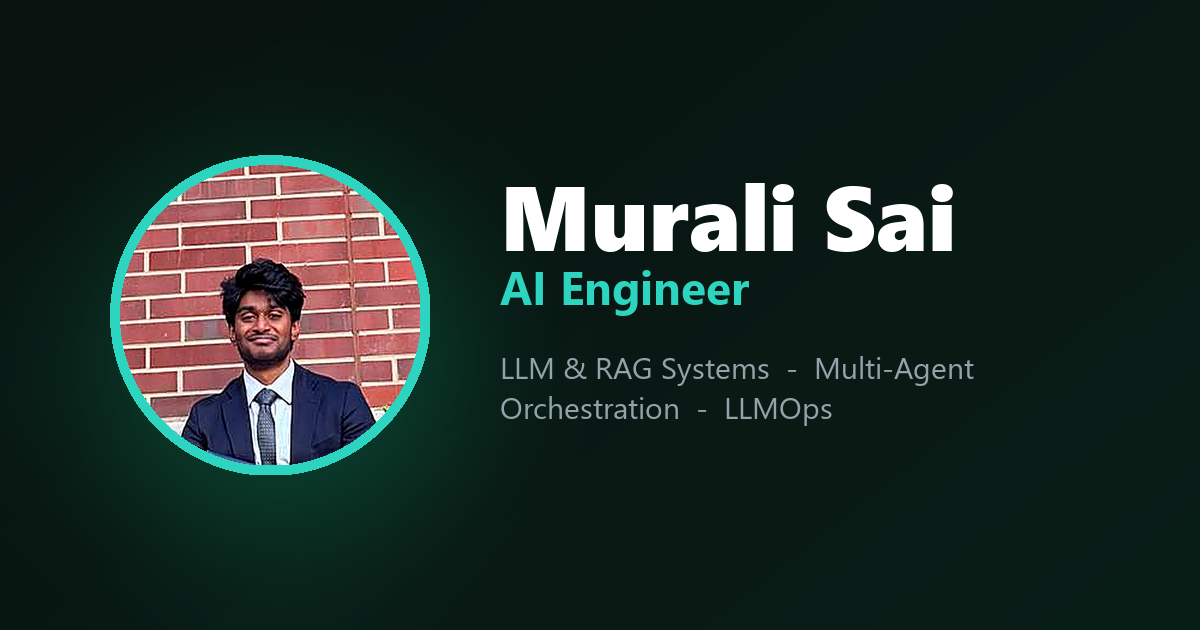
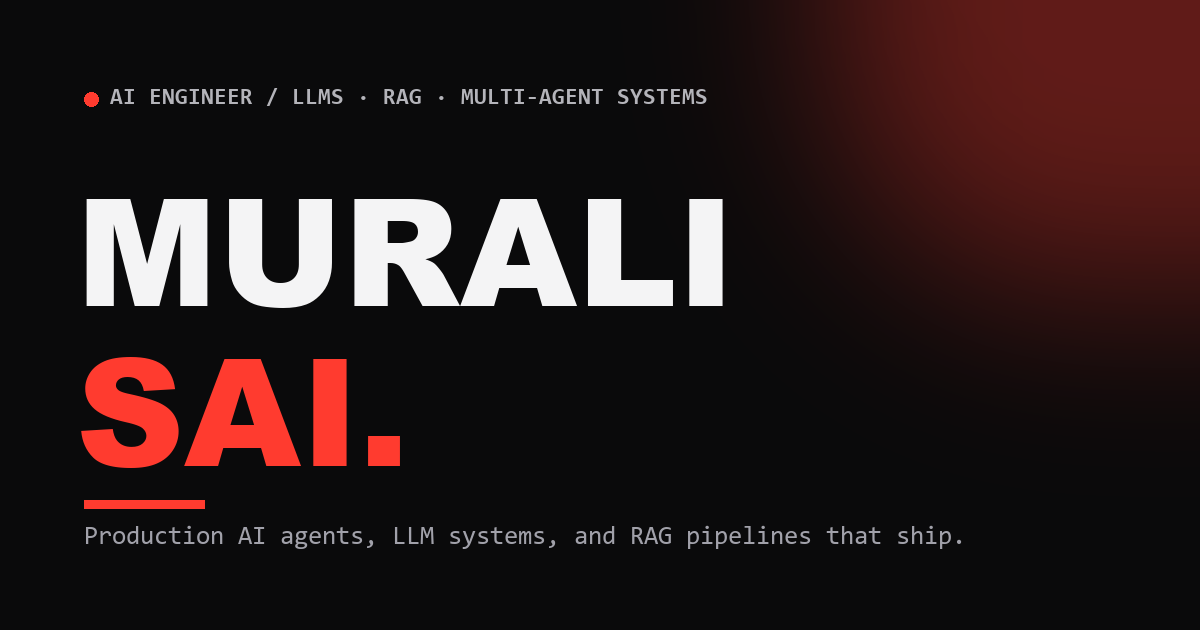
Redesign UI to black/red brutalist style (keep CV structure)
Adopt the reference's brutalist aesthetic while keeping the existing layout:
pure-black background with red glow, red/vermilion accent, heavy uppercase
Archivo display type, JetBrains Mono labels/eyebrows with slash markers,
sharp-cornered cards/buttons/pills, square avatar and bullets, and a matching
black/red OG preview image.

diff --git a/app/globals.css b/app/globals.css
@@ -13,12 +13,10 @@ html {
 
 body {
   @apply bg-bg text-ink font-sans antialiased;
+  background-color: #0a0a0b;
   background-image:
-    radial-gradient(circle at center, rgba(45, 212, 191, 0.11) 1px, transparent 1.6px),
-    radial-gradient(60rem 60rem at 85% -10%, rgba(45, 212, 191, 0.1), transparent 60%),
-    radial-gradient(50rem 50rem at -10% 20%, rgba(16, 185, 129, 0.08), transparent 55%),
-    linear-gradient(180deg, #04110d 0%, #061712 50%, #04100c 100%);
-  background-size: 26px 26px, 100% 100%, 100% 100%, 100% 100%;
+    radial-gradient(42rem 42rem at 92% -8%, rgba(255, 59, 47, 0.12), transparent 55%),
+    radial-gradient(38rem 38rem at -8% 8%, rgba(255, 59, 47, 0.05), transparent 55%);
   background-attachment: fixed;
   min-height: 100vh;
 }
@@ -31,15 +29,14 @@ body {
   background: #04110d;
 }
 ::-webkit-scrollbar-thumb {
-  background: rgba(16, 185, 129, 0.25);
-  border-radius: 9999px;
+  background: rgba(255, 59, 47, 0.3);
 }
 ::-webkit-scrollbar-thumb:hover {
-  background: rgba(16, 185, 129, 0.45);
+  background: rgba(255, 59, 47, 0.5);
 }
 
 ::selection {
-  background: rgba(16, 185, 129, 0.3);
+  background: rgba(255, 59, 47, 0.35);
   color: #ffffff;
 }
 
@@ -69,27 +66,23 @@ body {
 
 @layer components {
   .card {
-    @apply rounded-2xl border border-white/[0.08] bg-gradient-to-b from-white/[0.05] to-white/[0.02] backdrop-blur-sm transition-all duration-300;
+    @apply rounded-none border border-white/10 bg-white/[0.02] transition-all duration-200;
   }
   .card-hover:hover {
-    @apply -translate-y-1 border-accent/40 from-white/[0.08] shadow-glow;
+    @apply border-accent/70 bg-white/[0.04] shadow-glow;
   }
   .pill {
-    @apply inline-flex items-center rounded-full border border-accent/25 bg-accent/[0.08] px-3 py-1 text-xs font-medium text-accent-soft transition-colors hover:border-accent/50 hover:bg-accent/[0.14];
+    @apply inline-flex items-center rounded-none border border-white/15 bg-transparent px-2.5 py-1 font-mono text-[11px] uppercase tracking-wider text-ink-muted transition-colors hover:border-accent/70 hover:text-accent-soft;
   }
   .section-title {
-    @apply font-display text-3xl font-bold tracking-tight md:text-4xl;
-    background-image: linear-gradient(135deg, #ffffff 0%, #d3efe8 55%, #2dd4bf 125%);
-    -webkit-background-clip: text;
-    background-clip: text;
-    color: transparent;
+    @apply font-display text-4xl font-extrabold uppercase tracking-tight text-ink md:text-5xl;
   }
   .section-kicker {
-    @apply mb-2 inline-flex items-center gap-2 text-xs font-semibold uppercase tracking-[0.25em] text-accent;
+    @apply mb-3 inline-flex items-center gap-2 font-mono text-xs font-medium uppercase tracking-[0.25em] text-accent;
   }
   .section-kicker::before {
-    content: "";
-    @apply h-px w-7 bg-accent/70;
+    content: "/";
+    @apply font-mono text-accent;
   }
 }
 

diff --git a/components/ProfileSidebar.tsx b/components/ProfileSidebar.tsx
@@ -15,20 +15,23 @@ export default function ProfileSidebar() {
       <div className="card animate-fade-up p-8 text-center">
         <Avatar name={profile.name} />
 
-        <h1 className="mt-5 font-display text-[2.05rem] font-bold leading-tight tracking-tight text-sheen">
-          {profile.name}
+        <h1 className="mt-5 font-display text-[2rem] font-extrabold uppercase leading-[0.95] tracking-tight text-ink">
+          {profile.name.split(" ").slice(0, -1).join(" ")}{" "}
+          <span className="text-accent">
+            {profile.name.split(" ").slice(-1)}.
+          </span>
         </h1>
-        <p className="mt-1 text-sm font-semibold text-accent-soft">
+        <p className="mt-2 font-mono text-xs uppercase tracking-widest text-accent-soft">
           {profile.title}
         </p>
-        <p className="mt-2 text-xs leading-relaxed text-ink-muted">
+        <p className="mt-3 text-xs leading-relaxed text-ink-muted">
           {profile.tagline}
         </p>
 
-        <div className="mt-4 space-y-1.5 text-xs text-ink-faint">
+        <div className="mt-4 space-y-1.5 font-mono text-[11px] text-ink-faint">
           <p>{profile.org}</p>
           <p className="flex items-center justify-center gap-1.5">
-            <MapPin size={13} className="text-accent" />
+            <MapPin size={12} className="text-accent" />
             {profile.location}
           </p>
         </div>
@@ -41,7 +44,7 @@ export default function ProfileSidebar() {
               target="_blank"
               rel="noopener noreferrer"
               aria-label={label}
-              className="flex h-9 w-9 items-center justify-center rounded-full border border-white/10 bg-white/[0.03] text-ink-muted transition-all hover:border-accent/40 hover:bg-accent/10 hover:text-accent-soft"
+              className="flex h-9 w-9 items-center justify-center rounded-none border border-white/15 bg-transparent text-ink-muted transition-all hover:border-accent hover:text-accent-soft"
             >
               <Icon size={16} />
             </a>
@@ -52,7 +55,7 @@ export default function ProfileSidebar() {
           href={profile.resume}
           target="_blank"
           rel="noopener noreferrer"
-          className="mt-6 flex w-full items-center justify-center gap-2 rounded-xl bg-accent px-4 py-2.5 text-sm font-semibold text-bg transition-all hover:bg-accent-soft hover:shadow-glow"
+          className="mt-6 flex w-full items-center justify-center gap-2 rounded-none bg-accent px-4 py-2.5 font-mono text-xs font-semibold uppercase tracking-wider text-bg transition-all hover:bg-accent-soft"
         >
           <FileDown size={16} />
           Download CV

diff --git a/components/Projects.tsx b/components/Projects.tsx
@@ -42,7 +42,7 @@ export default function Projects() {
               <ul className="mt-4 space-y-2">
                 {p.highlights.map((h, i) => (
                   <li key={i} className="flex gap-2.5 text-sm leading-relaxed text-ink-muted">
-                    <span className="mt-2 h-1.5 w-1.5 shrink-0 rounded-full bg-accent/70" />
+                    <span className="mt-2 h-1.5 w-1.5 shrink-0 bg-accent/70" />
                     <span className="flex-1 text-justify">{h}</span>
                   </li>
                 ))}
@@ -63,18 +63,18 @@ export default function Projects() {
                       href={p.demo}
                       target="_blank"
                       rel="noopener noreferrer"
-                      className="inline-flex items-center gap-1.5 rounded-lg border border-accent/30 bg-accent/10 px-3.5 py-1.5 text-xs font-medium text-accent-soft transition-all hover:bg-accent/20"
+                      className="inline-flex items-center gap-1.5 rounded-none border border-accent/60 bg-transparent px-3.5 py-1.5 font-mono text-[11px] uppercase tracking-wider text-accent-soft transition-all hover:bg-accent hover:text-bg"
                     >
-                      <ExternalLink size={14} /> View Deployed Site
+                      View Deployed Site <ExternalLink size={13} />
                     </a>
                   ) : (
                     <a
                       href={p.github}
                       target="_blank"
                       rel="noopener noreferrer"
-                      className="inline-flex items-center gap-1.5 rounded-lg border border-white/10 bg-white/[0.03] px-3.5 py-1.5 text-xs font-medium text-ink-muted transition-all hover:border-accent/40 hover:text-accent-soft"
+                      className="inline-flex items-center gap-1.5 rounded-none border border-white/15 bg-transparent px-3.5 py-1.5 font-mono text-[11px] uppercase tracking-wider text-ink-muted transition-all hover:border-accent hover:text-accent-soft"
                     >
-                      <Github size={14} /> Code
+                      <Github size={13} /> Code
                     </a>
                   )}
                   {p.demo && (

diff --git a/components/Experience.tsx b/components/Experience.tsx
@@ -10,7 +10,7 @@ export default function Experience() {
         {experience.map((job, idx) => (
           <Reveal key={`${job.company}-${job.period}`} delay={idx * 70}>
             <div className="relative pl-12">
-              <span className="absolute left-0 top-1 flex h-10 w-10 items-center justify-center rounded-full border border-accent/30 bg-bg text-accent">
+              <span className="absolute left-0 top-1 flex h-10 w-10 items-center justify-center rounded-none border border-accent/40 bg-bg text-accent">
                 <Briefcase size={16} />
               </span>
               <div className="card card-hover p-6">
@@ -20,7 +20,7 @@ export default function Experience() {
                     <span className="text-accent"> · </span>
                     <span className="text-accent-soft">{job.company}</span>
                   </h3>
-                  <span className="shrink-0 text-xs font-medium text-ink-faint">
+                  <span className="shrink-0 font-mono text-[11px] text-ink-faint">
                     {job.period}
                   </span>
                 </div>
@@ -29,7 +29,7 @@ export default function Experience() {
                 <ul className="mt-4 space-y-2.5">
                   {job.highlights.map((h, i) => (
                     <li key={i} className="flex gap-2.5 text-sm leading-relaxed text-ink-muted">
-                      <span className="mt-2 h-1.5 w-1.5 shrink-0 rounded-full bg-accent/70" />
+                      <span className="mt-2 h-1.5 w-1.5 shrink-0 bg-accent/70" />
                       <span className="flex-1 text-justify">{h}</span>
                     </li>
                   ))}

diff --git a/components/Navbar.tsx b/components/Navbar.tsx
@@ -53,12 +53,13 @@ export default function Navbar() {
             <li key={l.id} className="shrink-0">
               <a
                 href={`#${l.id}`}
-                className={`block whitespace-nowrap rounded-full px-1.5 py-1.5 text-[11px] transition-colors sm:px-3.5 sm:text-sm ${
+                className={`block whitespace-nowrap px-1.5 py-1.5 font-mono text-[11px] uppercase tracking-wider transition-colors sm:px-3 sm:text-xs ${
                   active === l.id
-                    ? "bg-accent/10 text-accent-soft"
+                    ? "text-accent-soft"
                     : "text-ink-muted hover:text-ink"
                 }`}
               >
+                <span className="text-accent/60">/</span>
                 {l.label}
               </a>
             </li>
@@ -68,7 +69,7 @@ export default function Navbar() {
           href={profile.resume}
           target="_blank"
           rel="noopener noreferrer"
-          className="shrink-0 rounded-full border border-accent/30 bg-accent/10 px-2.5 py-1.5 text-[11px] font-medium text-accent-soft transition-all hover:bg-accent/20 hover:shadow-glow sm:px-4 sm:text-sm"
+          className="shrink-0 rounded-none border border-accent/60 bg-transparent px-3 py-1.5 font-mono text-[11px] uppercase tracking-wider text-accent-soft transition-all hover:bg-accent hover:text-bg sm:px-4"
         >
           Resume
         </a>

diff --git a/components/Publications.tsx b/components/Publications.tsx
@@ -11,12 +11,12 @@ export default function Publications() {
           <Reveal key={pub.title} delay={idx * 70}>
             <article className="card card-hover p-6 md:p-7">
               <div className="flex items-start gap-4">
-                <span className="hidden h-11 w-11 shrink-0 items-center justify-center rounded-xl border border-accent/30 bg-accent/10 text-accent sm:flex">
+                <span className="hidden h-11 w-11 shrink-0 items-center justify-center rounded-none border border-accent/40 bg-transparent text-accent sm:flex">
                   <BookOpen size={18} />
                 </span>
                 <div>
                   {pub.award && (
-                    <span className="mb-2 inline-flex items-center gap-1.5 rounded-full border border-amber-400/30 bg-amber-400/10 px-3 py-1 text-xs font-semibold text-amber-300">
+                    <span className="mb-2 inline-flex items-center gap-1.5 rounded-none border border-accent/50 bg-accent/[0.08] px-2.5 py-1 font-mono text-[11px] font-semibold uppercase tracking-wider text-accent-soft">
                       <Award size={13} />
                       {pub.award}
                     </span>

diff --git a/tailwind.config.ts b/tailwind.config.ts
@@ -9,27 +9,28 @@ const config: Config = {
     extend: {
       colors: {
         bg: {
-          DEFAULT: "#04110d",
-          soft: "#071a14",
+          DEFAULT: "#0a0a0b",
+          soft: "#141416",
         },
         surface: "rgba(255,255,255,0.03)",
         accent: {
-          DEFAULT: "#10b981",
-          soft: "#2dd4bf",
-          deep: "#0f766e",
+          DEFAULT: "#ff3b2f",
+          soft: "#ff7a70",
+          deep: "#cc2a1e",
         },
         ink: {
-          DEFAULT: "#e6f1ee",
-          muted: "#9fb3ac",
-          faint: "#6b7f78",
+          DEFAULT: "#f4f4f5",
+          muted: "#a1a1aa",
+          faint: "#6c6c74",
         },
       },
       fontFamily: {
         sans: ["var(--font-sans)", "system-ui", "sans-serif"],
         display: ["var(--font-display)", "var(--font-sans)", "sans-serif"],
+        mono: ["var(--font-mono)", "ui-monospace", "monospace"],
       },
       boxShadow: {
-        glow: "0 0 0 1px rgba(16,185,129,0.15), 0 12px 40px -12px rgba(16,185,129,0.25)",
+        glow: "0 0 0 1px rgba(255,59,47,0.2), 0 16px 50px -16px rgba(255,59,47,0.3)",
       },
       keyframes: {
         "fade-up": {

diff --git a/app/layout.tsx b/app/layout.tsx
@@ -1,5 +1,5 @@
 import type { Metadata } from "next";
-import { Hanken_Grotesk, Bricolage_Grotesque } from "next/font/google";
+import { Hanken_Grotesk, Archivo, JetBrains_Mono } from "next/font/google";
 import "./globals.css";
 import { profile } from "@/lib/data";
 
@@ -9,9 +9,15 @@ const sans = Hanken_Grotesk({
   display: "swap",
 });
 
-const display = Bricolage_Grotesque({
+const display = Archivo({
   subsets: ["latin"],
   variable: "--font-display",
+  display: "swap",
+});
+
+const mono = JetBrains_Mono({
+  subsets: ["latin"],
+  variable: "--font-mono",
   display: "swap",
 });
 
@@ -57,7 +63,7 @@ export default function RootLayout({
   children,
 }: Readonly<{ children: React.ReactNode }>) {
   return (
-    <html lang="en" className={`${sans.variable} ${display.variable}`}>
+    <html lang="en" className={`${sans.variable} ${display.variable} ${mono.variable}`}>
       <body>
         <div aria-hidden className="grain pointer-events-none fixed inset-0 -z-10" />
         {children}

diff --git a/components/Avatar.tsx b/components/Avatar.tsx
@@ -22,8 +22,8 @@ export default function Avatar({ name }: { name: string }) {
 
   return (
     <div className="relative mx-auto h-36 w-36">
-      <div className="absolute inset-0 rounded-full bg-gradient-to-br from-accent/40 to-accent-soft/30 blur-md" />
-      <div className="relative h-36 w-36 overflow-hidden rounded-full ring-2 ring-accent/40 ring-offset-2 ring-offset-bg">
+      <div className="absolute -inset-1 rounded-none bg-gradient-to-br from-accent/30 to-accent-soft/20 blur-md" />
+      <div className="relative h-36 w-36 overflow-hidden rounded-none border-2 border-accent">
         {!errored ? (
           // eslint-disable-next-line @next/next/no-img-element
           <img

diff --git a/components/About.tsx b/components/About.tsx
@@ -29,7 +29,7 @@ export default function About() {
             <ul className="space-y-2.5">
               {about.interests.map((i) => (
                 <li key={i} className="flex items-center gap-2.5 text-sm text-ink-muted">
-                  <span className="h-1.5 w-1.5 shrink-0 rounded-full bg-accent" />
+                  <span className="h-1.5 w-1.5 shrink-0 bg-accent" />
                   {i}
                 </li>
               ))}

diff --git a/components/Section.tsx b/components/Section.tsx
@@ -16,7 +16,7 @@ export default function Section({
       <Reveal>
         <p className="section-kicker">{kicker}</p>
         <h2 className="section-title">{title}</h2>
-        <div className="mt-2 h-px w-16 bg-gradient-to-r from-accent to-transparent" />
+        <div className="mt-3 h-1 w-14 bg-accent" />
       </Reveal>
       <div className="mt-6">{children}</div>
     </section>
